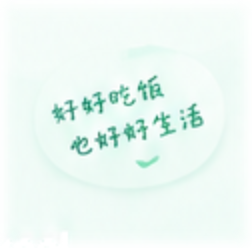
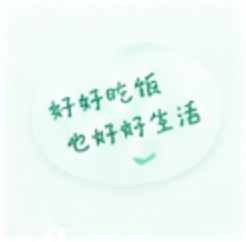
feat(home): Hero 重排第一批——死类修复/顶部带压缩/贴纸入列/状态竖条/字号阶梯
- 补定义 status-text-coral/amber/green（goal.ts 返回的死类，超标报警色此前静默失效）
- spacer 220→190 / hero 470→440，瓶与叶片同步上移压缩空白带
- 贴纸由右上悬空改右列流内首段；sticker.png 去整画布 alpha≈10 白雾层并按内容边裁切
- 悬空小 leaf 改 6rpx 状态色竖条与「已超标」成组；宏量/餐次字号降档拉开层级
- 安卓模拟器验收：SettleBadge 双次添加环形均在场（顽疾闭环）、FoodPicker 竖条/下划线选中态生效

diff --git a/docs/progress.md b/docs/progress.md
@@ -277,3 +277,22 @@
 - Shake 搅动：idle vs shake 22,111 像素 >30 diff → **PASS**
 - Pour 倒水：前序会话 V1~V6 帧序列已验收 → **PASS（本轮未复跑，代码路径无变更）**
 - 编译：bytes/GenComponentsBottleLiquidSharedData.*.bytes mtime=02:12 → **PASS**
+
+### 2026-09-24 19:34:00 — 首页 Hero 重排第一批落地 + SettleBadge/FoodPicker 安卓端全量验收
+
+**背景**：Boss 反馈 Hero「杂乱、上空白大、右侧背景图模糊」。经全页分析定案 S1+S2+S5+S8+S9 为第一批（S4/S6/S7/贴纸矢量化留待拍板）。先提交存量（`1928257`）再动刀。
+
+**交付物**（`app/pages/home/Home.uvue` + `app/static/home/sticker.png`）：
+1. **S1 死类修复**：`stores/goal.ts` 返回的 `status-text-coral/amber/green` 此前无任何 `<style>` 定义→超标珊瑚色静默失效。补齐三类定义，且置于 `.remain-label/.remain-num` 之后（同特异度后者胜）
+2. **S2 顶部带压缩**：`headerSpacerH` 220→190rpx 折算、`.hero` 470→440rpx；瓶底纹 116→88、瓶身 96→76、叶片 256/260→236/240 同步上移
+3. **S5 贴纸入列**：右上悬空 `<image class="sticker">` 删除，改为 `.hero-text` 流内首段（`align-self:flex-end`，120×118rpx）；`.hero-text` 由 bottom 锚定改为全高列（top36/bottom24 + `justify-content:flex-end`）
+4. **S8 状态头收组**：悬空小 leaf 删除，改 `.hm-status-bar` 6rpx 状态色竖条与「已超标」文字成组（`remain-head` 去 space-between）
+5. **S9 字号阶梯**：`.macro-num` 42→32rpx、`.meal-kcal` 34→30rpx，与 hero 数字拉开层级
+6. **贴纸模糊真因**：非透明留白，而是整画布 alpha≈10 白雾层（早期 PIL 判读把像素值当坐标致误诊，已纠正）。处置：alpha<60→0 去雾 + 按内容边裁切 252×248→246×242
+
+**安卓模拟器验收证据**（MuMu 1280×2772，完整 `cli.exe launch --cleanCache` 重编排除假绿）：
+- SettleBadge 环形：第一次添加 `debug/shots/settle_2.png`（琥珀环+滚动 210）、第二次连续添加 `settle2_b.png`（环在场 223/珊瑚底轨）→ **顽疾「第二次添加环消失」闭环**
+- FoodPicker 选中态去色块：详情步下划线 `picker_detail.png`；「更换」回列表左竖条 `picker_change.png` + 放大 `rice_row_zoom.png`（约 6px 薄荷竖条，扫色 #1FBF8F）
+- Hero 第一批：Boss 7:12 实拍确认珊瑚染色上屏、竖条成组、贴纸清晰、宏量降档
+
+**待办**：批次二（S4 右缘对齐轴／S6 vs S7 大结构二选一／贴纸矢量化）等 Boss 拍板；MP-WEIXIN 端全量回归未跑（automator ws://9420 当时未连）。
